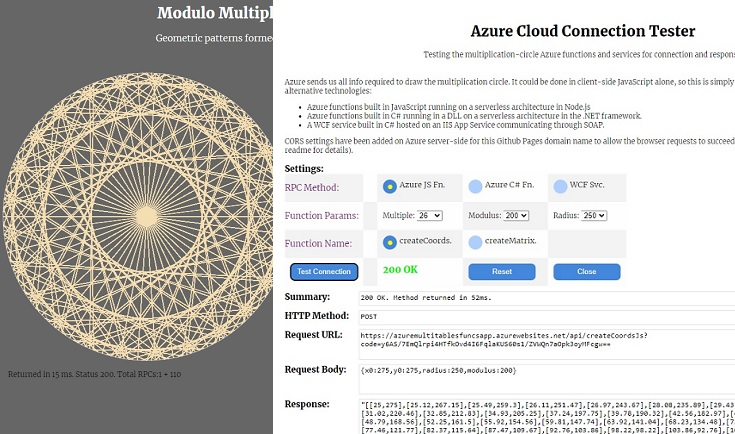
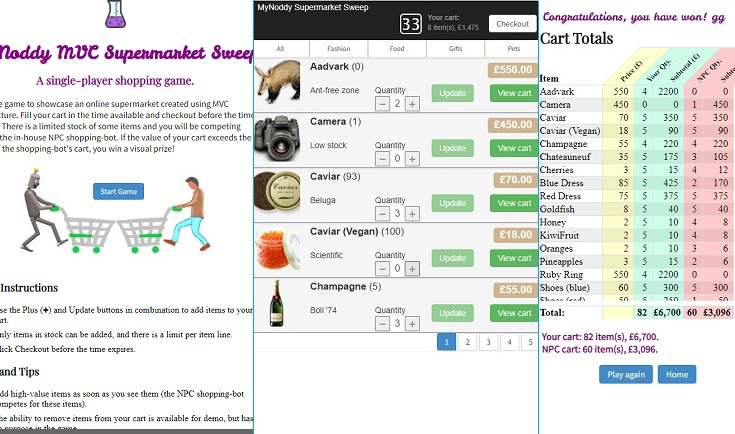
Added Blazor project

diff --git a/index.html b/index.html
@@ -39,26 +39,32 @@
 						<h2>Recent Projects</h2>
 						<div class="row">
 							<article class="col-6 col-12-xsmall work-item">
-								<a href="//sajeewa-dissa.github.io/tactile-double-pendulum-simulator/index.html" target="_blank" class="image fit"><img src="images/01.jpg" alt="" /></a>
+								<a href="//blazorcountdownheatchart.azurewebsites.net/" target="_blank" class="image fit"><img src="images/05.jpg" alt="" /></a>
+								<h3><a href="//blazorcountdownheatchart.azurewebsites.net/" target="_blank">Countdown Solutions Heatchart in Blazor</a></h3>
+								<p>Multi-threaded solutions finder for Countdown Numbers game in Blazor Server. <wbr/>The front-end uses C# razor pages and css only, no JavaScript! 
+									<wbr/> 2023</p>
+							</article>
+							<article class="col-6 col-12-xsmall work-item">
+								<a href="//sajeewa-dissa.github.io/tactile-double-pendulum-simulator/index.html" target="_blank" class="image fit"><img src="images/04.jpg" alt="" /></a>
 								<h3><a href="//sajeewa-dissa.github.io/tactile-double-pendulum-simulator/index.html" target="_blank">Tactile Double-Pendulum in JavaScript</a></h3>
 								<p>Interactive Double-Pendulum on canvas in modern vanilla JavaScript with modules and classes. <wbr/>The user can manipulate pendulum with mouse events 
 									<wbr/>(best run on desktop). 2023</p>
 							</article>
 							<article class="col-6 col-12-xsmall work-item">
-								<a href="//sajeewa-dissa.github.io/multiplication-tables-azure/index.html" target="_blank" class="image fit"><img src="images/02.jpg" alt="" /></a>
+								<a href="//sajeewa-dissa.github.io/multiplication-tables-azure/index.html" target="_blank" class="image fit"><img src="images/03.jpg" alt="" /></a>
 								<h3><a href="//sajeewa-dissa.github.io/multiplication-tables-azure/index.html" target="_blank">Modulo Multiplication Tables in Js and Azure</a></h3>
 								<p>Drawing geometric patterns using JSON objects, Azure [serverless] functions and Azure Cloud Services. <wbr/>
 									Demonstrates use of a continuous asynchronous request-response loop using XmlHttpRequest (XHR) and promises. 2019</p>
 							</article>
 							<article class="col-6 col-12-xsmall work-item">
-								<a href="//mynoddysupermarketsweep.azurewebsites.net/Home/Index" target="_blank" class="image fit"><img src="images/03.jpg" alt="" /></a>
+								<a href="//mynoddysupermarketsweep.azurewebsites.net/Home/Index" target="_blank" class="image fit"><img src="images/02.jpg" alt="" /></a>
 								<h3><a href="//mynoddysupermarketsweep.azurewebsites.net/Home/Index" target="_blank">MyNoddy MVC Supermarket Sweep</a></h3>
 								<p>An unlikely use-case for ASP.NET Framework MVC; an online shopping game in a store with a depreciating stock count on the server
 									updated in real-time on the client. <wbr/> Showcases an AI shopper-bot working as an adversary. <wbr/>
 								   Hosted as an Azure webapp with a fully responsive layout. 2019</p>
 							</article>
 							<article class="col-6 col-12-xsmall work-item">
-								<a href="//sajeewa-dissa.github.io/multiplication-tables-js/index.html" target="_blank" class="image fit"><img src="images/04.jpg" alt="" /></a>
+								<a href="//sajeewa-dissa.github.io/multiplication-tables-js/index.html" target="_blank" class="image fit"><img src="images/01.jpg" alt="" /></a>
 								<h3><a href="//sajeewa-dissa.github.io/multiplication-tables-js/index.html" target="_blank">Modulo Multiplication Tables in JavaScript</a></h3>
 								<p>Drawing geometric patterns on a canvas using client-side JavaScript. Demonstrates using event-emitters and listeners. Uses old style Js and JQuery. 2018</p>
 							</article>
@@ -80,6 +86,7 @@
 										<div class="col-6 col-12-xsmall"><input type="email" name="email" id="email" placeholder="Email" /></div>
 										<div class="col-12"><textarea name="message" id="message" placeholder="Message" rows="4"></textarea></div>
 									</div>
+									<div class="gapHack">&nbsp;</div>
 								   <ul class="actions">
 									   <li><input type="submit" value="Send Message" /></li>
 								   </ul>
@@ -131,12 +138,23 @@
 			<script src="assets/js/util.js"></script>
 			<script src="assets/js/main.js"></script>
 			<script>
-				// run a function to awaken the azure website (takes time to spin-up)
-				window.onload = ping;
+				// run a function to awaken the azure websites (takes time to spin-up)
+				window.onload = pingMvcAndBlazor;
 	
-				function ping(){
+				function pingMvcAndBlazor(){
 					$.ajax({
 						url: 'https://mynoddysupermarketsweep.azurewebsites.net',
+						type: 'HEAD',
+						success: function(result){
+							return;
+						},     
+						error: function(result){
+							return;
+						}
+					});
+
+					$.ajax({
+						url: 'https://blazorcountdownheatchart.azurewebsites.net',
 						type: 'HEAD',
 						success: function(result){
 							return;

diff --git a/assets/css/main.css b/assets/css/main.css
@@ -3222,3 +3222,7 @@ input, select, textarea {
 			}
 
 	}
+
+.gapHack{
+	height: 1em;
+}
